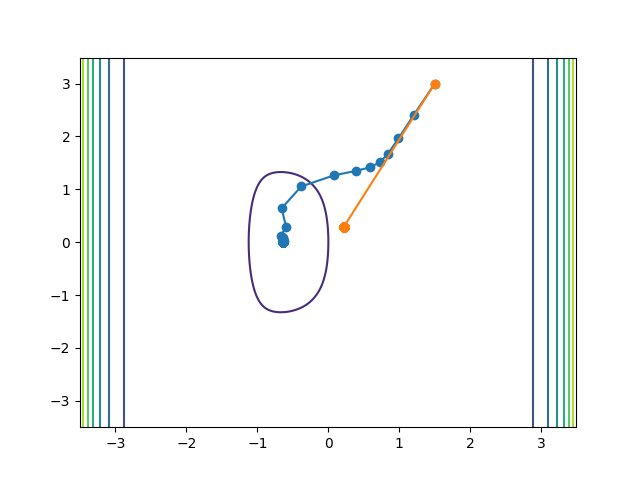
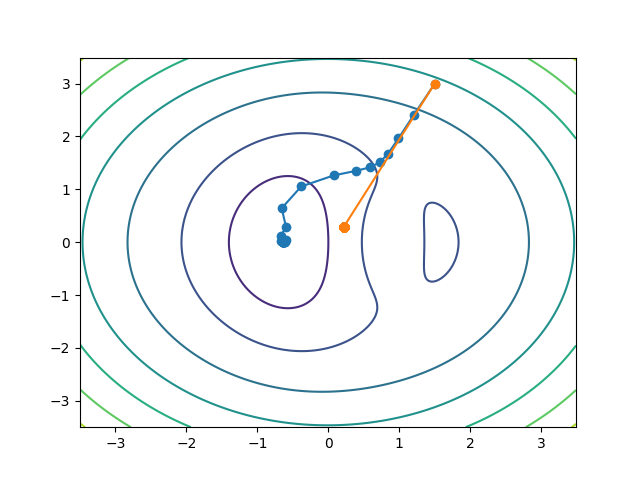
update on figures

diff --git a/HW1/hw1_q3.py b/HW1/hw1_q3.py
@@ -84,7 +84,7 @@ class HW1_Q3(object):
             a = self.armijo(x, fx, gx, d)
             x = x + a * d
             xs.append(x)
-            print(i)
+            print(i, end="\r")
 
         return np.array(xs)
 
@@ -110,7 +110,7 @@ class HW1_Q3(object):
             a = self.armijo(x, fx, gx, d)
             x = x + a * d
             xs.append(x)
-            print(i)
+            print(i, end="\r")
 
         return np.array(xs)
 
@@ -121,7 +121,7 @@ class HW1_Q3(object):
         L = 0.0
         x1 = x[0]
         x2 = x[1]
-        L = x1 * np.exp(-x1**2 - 0.5 * x2**2) + x1**10 / 10 + x2**2 / 10
+        L = x1 * np.exp(-x1**2 - 0.5 * x2**2) + x1**2 / 10 + x2**2 / 10
         return L
 
     def eval_G2(self, x):
@@ -160,46 +160,46 @@ if __name__ == '__main__':
     """This code runs if you execute this script"""
     hw1_q3 = HW1_Q3()
 
-    # TODO: Uncomment the following code to visualize gradient descent
-    #       & newton's method for the first loss function
-    fig = plt.figure()
-    ax = fig.add_subplot(111)
-    x1 = np.arange(-2, 2, 0.01)
-    x2 = np.arange(-2, 2, 0.01)
-    X1, X2 = np.meshgrid(x1, x2)
-    Z = np.zeros((X1.shape[0], X1.shape[1]))
-    for i in range(X1.shape[0]):
-        for j in range(X1.shape[1]):
-            Z[i, j] = hw1_q3.eval_L1(np.array([X1[i, j], X2[i, j]]))
-    contour = ax.contour(X1, X2, Z, cmap=cm.viridis)
-    xsg = hw1_q3.gradient_descent(np.array([0, 0]), hw1_q3.eval_L1,
-                                  hw1_q3.eval_G1)
-    xsn = hw1_q3.newton_descent(np.array([0, 0]), hw1_q3.eval_L1,
-                                hw1_q3.eval_G1, hw1_q3.eval_H1)
-    plt.plot(xsg[:, 0], xsg[:, 1], '-o')
-    plt.plot(xsn[:, 0], xsn[:, 1], '-o')
-    print("First loss function gradient method steps: ", xsg.shape[0]-1)
-    print("First loss function newton method steps:   ", xsn.shape[0]-1)
-
-    # TODO: Uncomment the following code to visualize gradient descent
-    #       & newton's method for the second loss function
+    # # TODO: Uncomment the following code to visualize gradient descent
+    # #       & newton's method for the first loss function
     # fig = plt.figure()
     # ax = fig.add_subplot(111)
-    # x1 = np.arange(-3.5, 3.5, 0.01)
-    # x2 = np.arange(-3.5, 3.5, 0.01)
+    # x1 = np.arange(-2, 2, 0.01)
+    # x2 = np.arange(-2, 2, 0.01)
     # X1, X2 = np.meshgrid(x1, x2)
     # Z = np.zeros((X1.shape[0], X1.shape[1]))
     # for i in range(X1.shape[0]):
     #     for j in range(X1.shape[1]):
-    #         Z[i, j] = hw1_q3.eval_L2(np.array([X1[i, j], X2[i, j]]))
+    #         Z[i, j] = hw1_q3.eval_L1(np.array([X1[i, j], X2[i, j]]))
     # contour = ax.contour(X1, X2, Z, cmap=cm.viridis)
-    # xsg = hw1_q3.gradient_descent(np.array([1.5, 3.0]), hw1_q3.eval_L2,
-    #                               hw1_q3.eval_G2)
-    # print("-"*50)
-    # xsn = hw1_q3.newton_descent(np.array([1.5, 3.0]), hw1_q3.eval_L2,
-    #                             hw1_q3.eval_G2, hw1_q3.eval_H2)  # Not quite working yet
+    # xsg = hw1_q3.gradient_descent(np.array([0, 0]), hw1_q3.eval_L1,
+    #                               hw1_q3.eval_G1)
+    # xsn = hw1_q3.newton_descent(np.array([0, 0]), hw1_q3.eval_L1,
+    #                             hw1_q3.eval_G1, hw1_q3.eval_H1)
     # plt.plot(xsg[:, 0], xsg[:, 1], '-o')
     # plt.plot(xsn[:, 0], xsn[:, 1], '-o')
-    # print("Second loss function gradient method steps: ", xsg.shape[0]-1)
-    # print("Second loss function newton method steps:   ", xsn.shape[0]-1)
+    # print("First loss function gradient method steps: ", xsg.shape[0]-1)
+    # print("First loss function newton method steps:   ", xsn.shape[0]-1)
+
+    # TODO: Uncomment the following code to visualize gradient descent
+    #       & newton's method for the second loss function
+    fig = plt.figure()
+    ax = fig.add_subplot(111)
+    x1 = np.arange(-3.5, 3.5, 0.01)
+    x2 = np.arange(-3.5, 3.5, 0.01)
+    X1, X2 = np.meshgrid(x1, x2)
+    Z = np.zeros((X1.shape[0], X1.shape[1]))
+    for i in range(X1.shape[0]):
+        for j in range(X1.shape[1]):
+            Z[i, j] = hw1_q3.eval_L2(np.array([X1[i, j], X2[i, j]]))
+    contour = ax.contour(X1, X2, Z, cmap=cm.viridis)
+    xsg = hw1_q3.gradient_descent(np.array([1.5, 3.0]), hw1_q3.eval_L2,
+                                  hw1_q3.eval_G2)
+    print("-"*50)
+    xsn = hw1_q3.newton_descent(np.array([1.5, 3.0]), hw1_q3.eval_L2,
+                                hw1_q3.eval_G2, hw1_q3.eval_H2)  # Not quite working yet
+    plt.plot(xsg[:, 0], xsg[:, 1], '-o')
+    plt.plot(xsn[:, 0], xsn[:, 1], '-o')
+    print("Second loss function gradient method steps: ", xsg.shape[0]-1)
+    print("Second loss function newton method steps:   ", xsn.shape[0]-1)
     plt.show()
